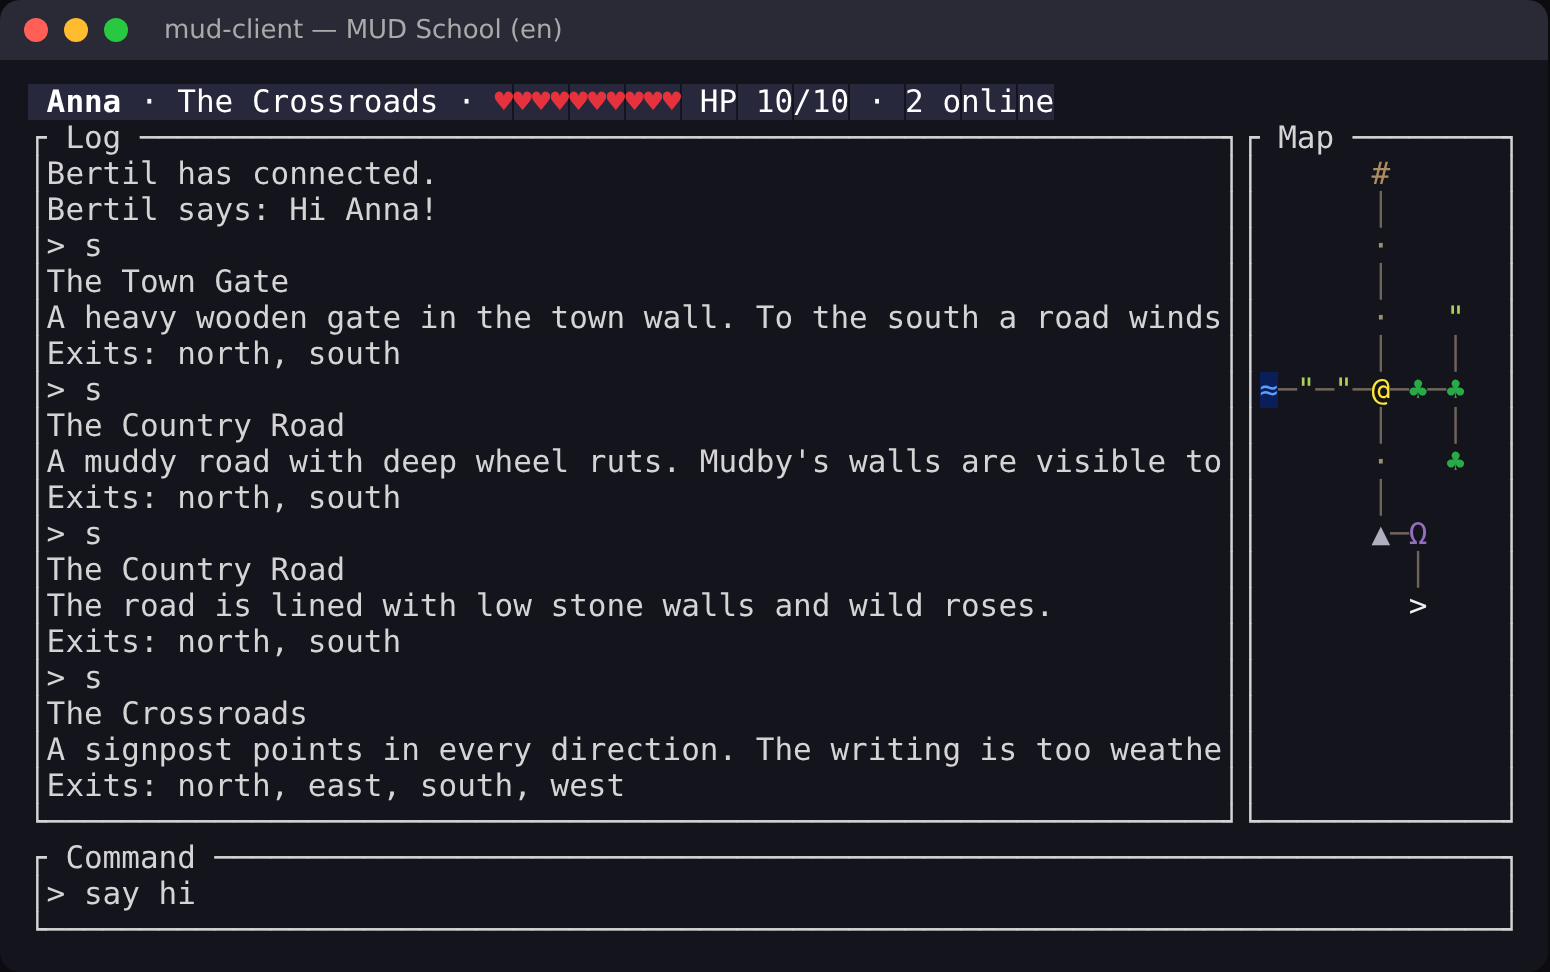
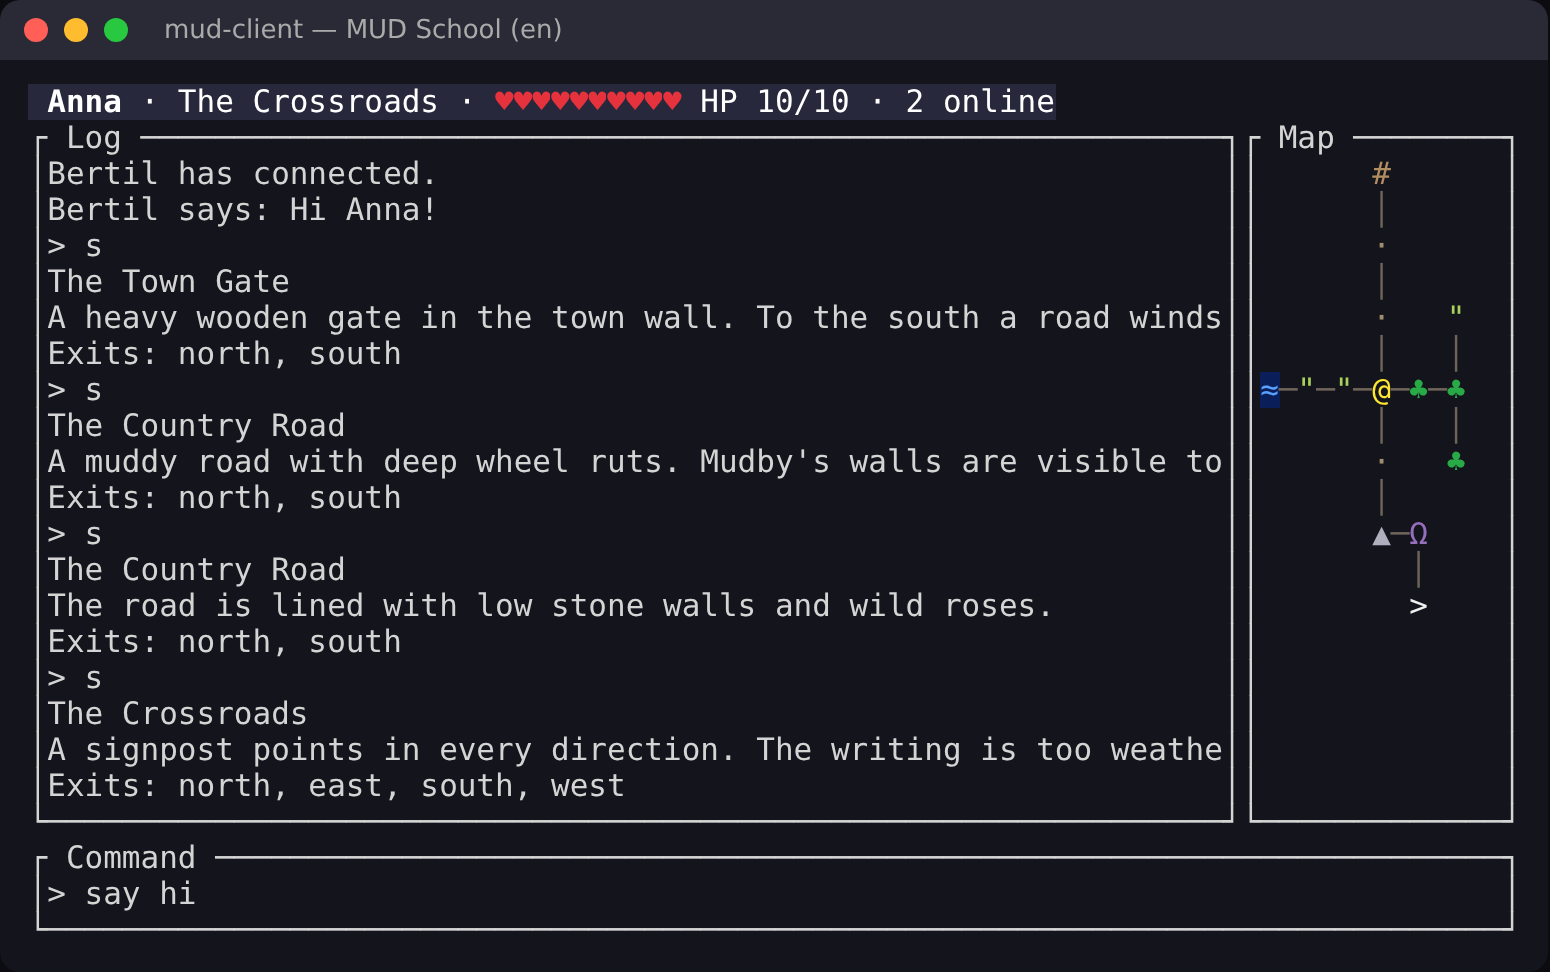
Address review of PR #3
- screenshots/make.sh: only kill its own tmux sessions and always remove
  its temp dir (set +e in the cleanup trap)
- keep ./mudschool in Git Bash/MSYS2 on Windows (MSYSTEM set)
- doctor: Windows Terminal/VS Code no longer force UTF-8 on non-Windows
  (e.g. WSL with LANG=C), detect mintty, softer Terminal.app wording,
  pacman --needed in the gcc hint
- English-first language order in the remaining docs and --lang error
- SETUP: BIZ UDGothic availability on non-Japanese Windows, Ctrl+C
  'Terminate batch job' note, Terminal.app wording
- screenshots: no seams between cells

Claude-Session: https://claude.ai/code/session_01Q755vmhUKgcUFu9QREsMa7

diff --git a/tools/mudschool/doctor.go b/tools/mudschool/doctor.go
@@ -88,10 +88,10 @@ func (c *course) cmdDoctor() error {
 	case t.name != "" && t.utf8 && t.truecolor:
 		ok(label, t.name+L(" (UTF-8, 24-bitars färg)", " (UTF-8, 24-bit colour)", "（UTF-8、24 ビットカラー）"))
 	case t.name != "" && !t.truecolor:
-		warn(label, t.name+L(" saknar 24-bitars färg", " lacks 24-bit colour", " は 24 ビットカラー非対応です"), L(
-			"Kartans färger blir fel. Byt terminal – se SETUP.md.",
-			"The map's colours will be wrong. Switch terminals – see SETUP.md.",
-			"マップの色がおかしくなります。端末を変えてください。SETUP.md を参照。"))
+		warn(label, t.name+L(" har ofta saknat 24-bitars färg", " has often lacked 24-bit colour", " は 24 ビットカラーに対応していないことがあります"), L(
+			"Ser kartans färger fel ut, byt terminal – se SETUP.md.",
+			"If the map's colours look wrong, switch terminals – see SETUP.md.",
+			"マップの色がおかしければ端末を変えてください。SETUP.md を参照。"))
 	case runtime.GOOS == "windows":
 		warn(label, L("inte Windows Terminal", "not Windows Terminal", "Windows Terminal ではありません"), L(
 			"Den gamla Windows-konsolen visar varken färgerna eller tecknen rätt. Använd Windows Terminal (`winget install Microsoft.WindowsTerminal`).",
@@ -145,9 +145,11 @@ func detectTerminal() terminalInfo {
 
 	switch {
 	case os.Getenv("WT_SESSION") != "":
-		t.name, t.utf8, t.truecolor = "Windows Terminal", true, true
+		t.name, t.truecolor = "Windows Terminal", true
 	case os.Getenv("TERM_PROGRAM") == "vscode":
-		t.name, t.utf8, t.truecolor = "VS Code", true, true
+		t.name, t.truecolor = "VS Code", true
+	case os.Getenv("TERM_PROGRAM") == "mintty":
+		t.name, t.truecolor = "mintty", true
 	case os.Getenv("TERM_PROGRAM") == "Apple_Terminal":
 		t.name, t.utf8, t.truecolor = "Terminal.app", true, false
 	case os.Getenv("TERM_PROGRAM") == "iTerm.app":
@@ -195,9 +197,9 @@ func gccHint() string {
 	switch runtime.GOOS {
 	case "windows":
 		return L(
-			"Behövs bara för `./mudschool check --race`. Installera MSYS2 (`winget install MSYS2.MSYS2`), kör `pacman -S mingw-w64-ucrt-x86_64-gcc` i \"MSYS2 UCRT64\" och lägg till C:\\msys64\\ucrt64\\bin i PATH. Se SETUP.md.",
-			"Only needed for `./mudschool check --race`. Install MSYS2 (`winget install MSYS2.MSYS2`), run `pacman -S mingw-w64-ucrt-x86_64-gcc` in \"MSYS2 UCRT64\" and add C:\\msys64\\ucrt64\\bin to PATH. See SETUP.md.",
-			"`./mudschool check --race` を使うときだけ必要です。MSYS2 を入れ（`winget install MSYS2.MSYS2`）、「MSYS2 UCRT64」で `pacman -S mingw-w64-ucrt-x86_64-gcc` を実行し、C:\\msys64\\ucrt64\\bin を PATH に追加します。SETUP.md を参照。")
+			"Behövs bara för `./mudschool check --race`. Installera MSYS2 (`winget install MSYS2.MSYS2`), kör `pacman -S --needed mingw-w64-ucrt-x86_64-gcc` i \"MSYS2 UCRT64\" och lägg till C:\\msys64\\ucrt64\\bin i PATH. Se SETUP.md.",
+			"Only needed for `./mudschool check --race`. Install MSYS2 (`winget install MSYS2.MSYS2`), run `pacman -S --needed mingw-w64-ucrt-x86_64-gcc` in \"MSYS2 UCRT64\" and add C:\\msys64\\ucrt64\\bin to PATH. See SETUP.md.",
+			"`./mudschool check --race` を使うときだけ必要です。MSYS2 を入れ（`winget install MSYS2.MSYS2`）、「MSYS2 UCRT64」で `pacman -S --needed mingw-w64-ucrt-x86_64-gcc` を実行し、C:\\msys64\\ucrt64\\bin を PATH に追加します。SETUP.md を参照。")
 	case "darwin":
 		return L("Behövs bara för `./mudschool check --race`: `xcode-select --install`", "Only needed for `./mudschool check --race`: `xcode-select --install`", "`./mudschool check --race` を使うときだけ必要です: `xcode-select --install`")
 	default:

diff --git a/tools/screenshots/ansi2html.py b/tools/screenshots/ansi2html.py
@@ -55,7 +55,7 @@ for line in open(src, encoding='utf-8').read().split('\n')[:ROWS]:
 out = []
 for y, row in enumerate(cells):
     for (x, w, ch, fg, bg, bold) in row:
-        style = 'left:%.1fpx;top:%dpx;width:%.1fpx;' % (x * CW, y * CH, w * CW)
+        style = 'left:%.1fpx;top:%dpx;width:%.1fpx;' % (x * CW, y * CH, w * CW + 0.6)
         if bg: style += 'background:%s;' % bg
         style += 'color:%s;' % (fg or DEF_FG)
         if bold: style += 'font-weight:bold;'

diff --git a/tools/mudschool/i18n.go b/tools/mudschool/i18n.go
@@ -15,7 +15,8 @@ var lang = "en"
 // self is how the user starts the tool: "./mudschool" with a POSIX shell,
 // ".\mudschool.cmd" on Windows (cmd.exe and PowerShell).
 var self = func() string {
-	if runtime.GOOS == "windows" {
+	// Git Bash / MSYS2 run the sh script, so keep "./mudschool" there.
+	if runtime.GOOS == "windows" && os.Getenv("MSYSTEM") == "" {
 		return `.\mudschool.cmd`
 	}
 	return "./mudschool"

diff --git a/tools/mudschool/main.go b/tools/mudschool/main.go
@@ -80,7 +80,7 @@ func main() {
 	}
 	if langFlag != "" {
 		if !validLang(langFlag) {
-			fail(fmt.Errorf("--lang: %q (sv, en, ja)", langFlag))
+			fail(fmt.Errorf("--lang: %q (en, sv, ja)", langFlag))
 		}
 		lang = langFlag
 	}

diff --git a/docs/sv/SETUP.md b/docs/sv/SETUP.md
@@ -140,7 +140,7 @@ xcode-select --install            # C-kompilator, behövs för --race
 
 ### 2. En terminal med 24-bitars färg
 
-**Terminal.app saknar truecolor** – kartans färger blir fel. Använd **iTerm2**,
+**Terminal.app har länge saknat truecolor** (åtminstone före macOS 26) – kartans färger kan bli fel. Använd **iTerm2**,
 **WezTerm**, **Ghostty** eller **kitty** (t.ex. `brew install --cask iterm2`).
 
 ### 3. Hämta kursen och börja
@@ -226,7 +226,7 @@ Klienten ritar kartan med tecken som `♣ ≈ ▲ ■ Ω ─ │ ♥` i 24-bitar
 
 **Windows Terminal:** Inställningar (`Ctrl+,`) → *Profiler* → *Standardvärden* →
 *Utseende* → *Teckensnitt*. Installera ett nedladdat typsnitt först
-(högerklicka på `.ttf`-filen → *Installera*) och starta om Windows Terminal.
+(högerklicka på `.ttf`-filen → *Installera*) och starta om Windows Terminal. BIZ UDGothic finns förinstallerat i japansk Windows; i övriga lägger du till det under Inställningar → System → Valfria funktioner → *Japanese Supplemental Fonts*.
 Saknar ett typsnitt något tecken lånar Windows Terminal det automatiskt från
 ett annat typsnitt.
 
@@ -255,6 +255,7 @@ hanterar klienten rätt.
 | Kartans kolumner hamnar fel (japanska) | Tecken med tvetydig bredd ritas dubbelt så breda – se [Typsnitt och terminaler](#typsnitt-och-terminaler). |
 | Inga eller fel färger | Terminalen saknar 24-bitars färg (t.ex. macOS Terminal.app, den gamla Windows-konsolen). |
 | `-race requires cgo` | Installera en C-kompilator (se avsnittet för ditt system) eller kör utan `--race`. |
+| Windows: Ctrl+C frågar "Terminate batch job (Y/N)?" | Det är cmd.exe som frågar eftersom `mudschool.cmd` är en batchfil. Svara `Y`. |
 | `doctor` varnar för UTF-8/färg fast allt ser bra ut | Terminalen kändes inte igen. Ser kartan rätt ut kan du strunta i det. |
 
 Fungerar det fortfarande inte? Kör `doctor` och läs det som är rött eller gult.

diff --git a/docs/en/SETUP.md b/docs/en/SETUP.md
@@ -141,7 +141,7 @@ Reopen the terminal, then check `go version`, `rustc --version` and `cargo --ver
 
 ### 2. A terminal with 24-bit colour
 
-**Terminal.app lacks truecolor** – the map's colours come out wrong. Use
+**Terminal.app has long lacked truecolor** (at least before macOS 26) – the map's colours may come out wrong. Use
 **iTerm2**, **WezTerm**, **Ghostty** or **kitty** (e.g. `brew install --cask iterm2`).
 
 ### 3. Get the course and start
@@ -226,7 +226,7 @@ The client draws the map with characters such as `♣ ≈ ▲ ■ Ω ─ │ ♥
 
 **Windows Terminal:** Settings (`Ctrl+,`) → *Profiles* → *Defaults* →
 *Appearance* → *Font face*. Install a downloaded font first (right-click the
-`.ttf` file → *Install*) and restart Windows Terminal. If a font lacks a
+`.ttf` file → *Install*) and restart Windows Terminal. BIZ UDGothic is preinstalled on Japanese Windows; elsewhere add it under Settings → System → Optional features → *Japanese Supplemental Fonts*. If a font lacks a
 character, Windows Terminal borrows it from another font automatically.
 
 **Japanese text and the map.** Characters such as `≈ ▲ ■ ─ │ ♣` are "East
@@ -254,6 +254,7 @@ client handles correctly.
 | The map's columns don't line up (Japanese) | Ambiguous-width characters are drawn double-width – see [Fonts and terminals](#fonts-and-terminals). |
 | No colours or wrong colours | The terminal lacks 24-bit colour (e.g. macOS Terminal.app, the old Windows console). |
 | `-race requires cgo` | Install a C compiler (see your system's section) or run without `--race`. |
+| Windows: Ctrl+C asks "Terminate batch job (Y/N)?" | That is cmd.exe asking because `mudschool.cmd` is a batch file. Answer `Y`. |
 | `doctor` warns about UTF-8/colour although everything looks fine | Your terminal wasn't recognised. If the map looks right, you can ignore it. |
 
 Still not working? Run `doctor` and read what is red or yellow.

diff --git a/docs/ja/CURRICULUM.md b/docs/ja/CURRICULUM.md
@@ -107,7 +107,7 @@ Go のサーバーの中で動くのです。
 ### 7. コースは 3 つの言語で
 
 説明、ヒント、コースツール、テストの失敗メッセージ、ゲーム内のテキスト、ゲームの
-世界は **スウェーデン語・英語・日本語** で用意しています（`./mudschool init --lang en|sv|ja`、
+世界は **英語・スウェーデン語・日本語** で用意しています（`./mudschool init --lang en|sv|ja`、
 後で `./mudschool lang` で変更可能）。コードとコメントは英語です。実際の現場でコードに
 出会うのはその形ですし、すべての受講者が互いの解答を読めます。プレイヤー向けの
 テキストを専用ファイル（`messages.go`）にまとめることは、ゲーム自体の

diff --git a/docs/en/CURRICULUM.md b/docs/en/CURRICULUM.md
@@ -114,7 +114,7 @@ your code however you like – as long as it behaves correctly.
 ### 7. The course is available in three languages
 
 Instructions, hints, the course tool, the tests' failure messages, the game's
-texts and the game world are available in **Swedish, English and Japanese**
+texts and the game world are available in **English, Swedish and Japanese**
 (`./mudschool init --lang en|sv|ja`, change later with `./mudschool lang`).
 Code and code comments are in English – that is how you will meet code in
 the real world, and it lets every student read each other's solutions. Having

diff --git a/docs/ja/IDEAS.md b/docs/ja/IDEAS.md
@@ -70,5 +70,5 @@
   プレイヤーごとに `messages` を選ぶ。グローバル定数では足りなくなったときの
   設計し直しのよい練習です。
 - **さらに多くの言語:** 同じプロトコルを使えば、クライアントを 3 つ目の言語で書く
-  トラックを簡単に追加できます。コース自体も、スウェーデン語・英語・日本語と同じ
+  トラックを簡単に追加できます。コース自体も、英語・スウェーデン語・日本語と同じ
   方法でさらに多くの言語に翻訳できます。

diff --git a/docs/sv/CURRICULUM.md b/docs/sv/CURRICULUM.md
@@ -114,7 +114,7 @@ strukturera din kod som du vill – så länge den beter sig rätt.
 ### 7. Kursen finns på tre språk
 
 Instruktioner, ledtrådar, kursverktyget, testernas felmeddelanden, spelets
-texter och spelvärlden finns på **svenska, engelska och japanska**
+texter och spelvärlden finns på **engelska, svenska och japanska**
 (`./mudschool init --lang en|sv|ja`, byt senare med `./mudschool lang`).
 Kod och kodkommentarer är på engelska – det är så du kommer att möta kod i
 verkligheten, och det gör att alla studenter kan läsa varandras lösningar.

diff --git a/docs/en/IDEAS.md b/docs/en/IDEAS.md
@@ -77,4 +77,4 @@ Many of them work as challenges, projects of your own or future lessons.
   redesigning when global constants are no longer enough.
 - **More languages:** the same protocol makes it easy to add a track where the
   client is written in a third language – and the course itself can be
-  translated into more languages in the same way as Swedish, English and Japanese.
+  translated into more languages in the same way as English, Swedish and Japanese.
